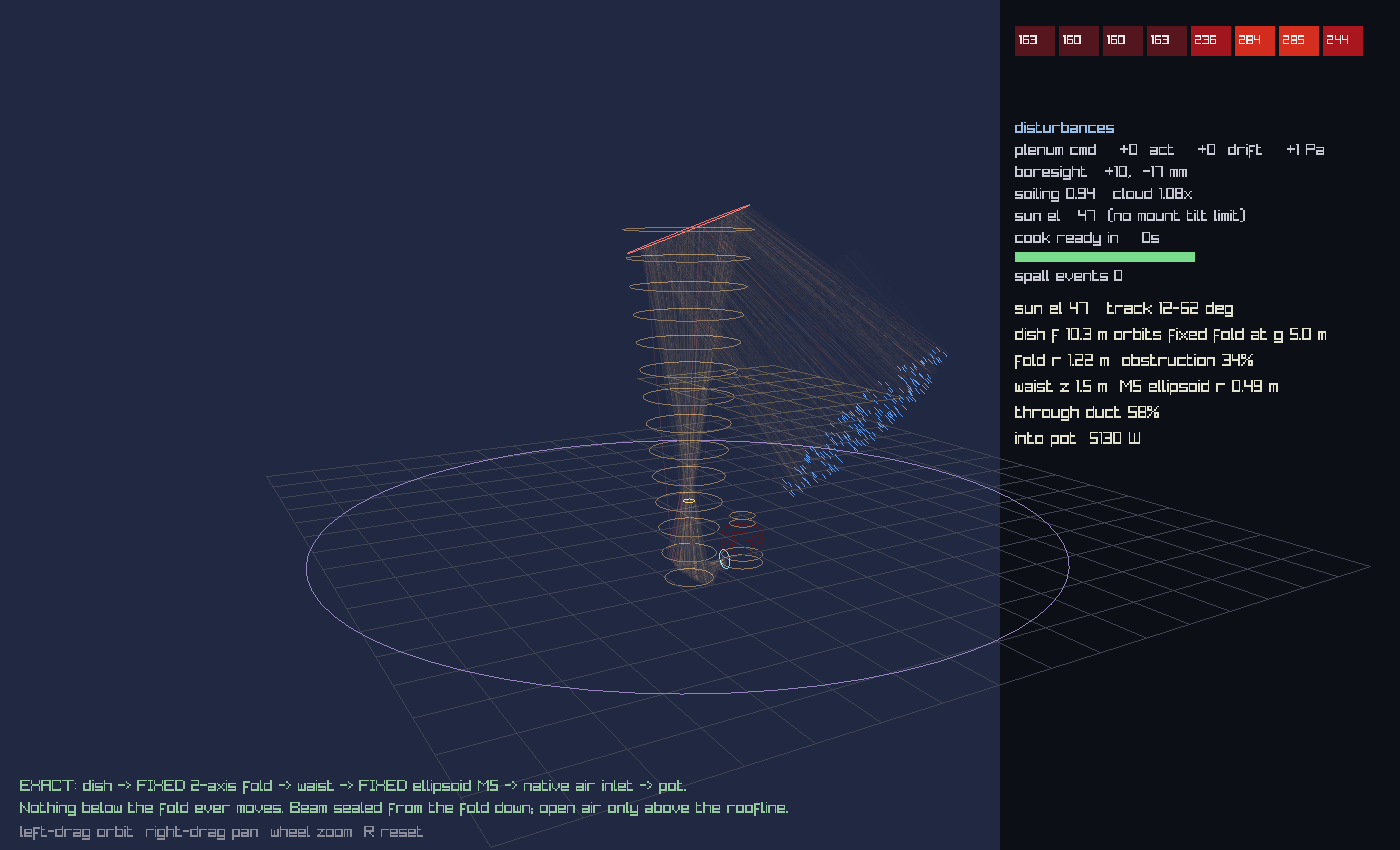
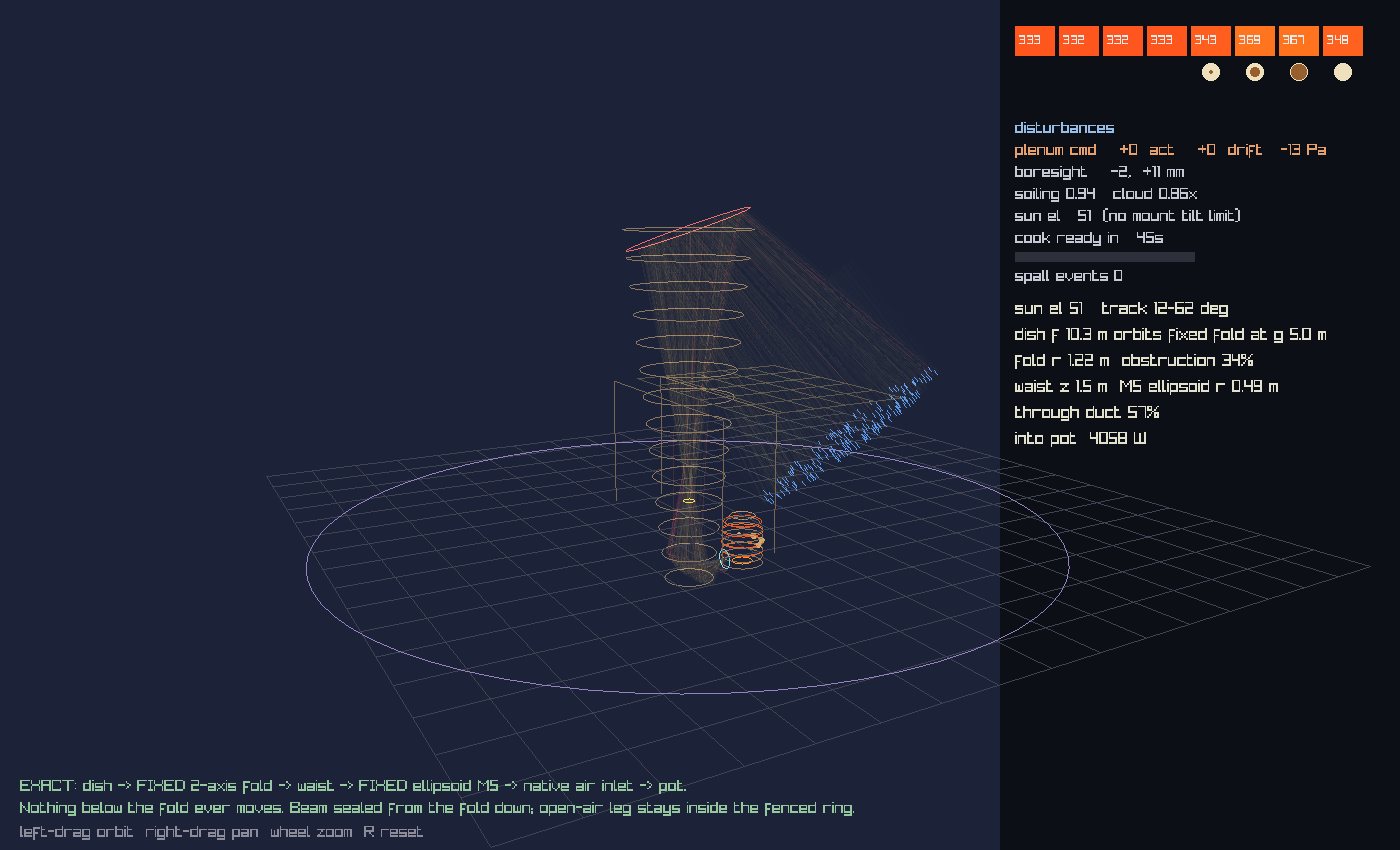
Hashemi renderer: realistic tandoor, room and rotis, ported not restyled
The scene had a placeholder pot (uniform rings, one heat colour) beside
an exact optical trace. Ported the realistic elements from the envs
that already had them:

From the BEAM-DOWN scene: the belt drawn as per-segment wall arcs, each
at its own node temperature; the roti on each loaded segment as a
sphere that grows with bread_E/ROTI_ENERGY; hearth and crown at their
own node colours. The segment arcs go through the same frame map the
physics bins with ((x,y) = (-y_t, x_t)), so the hot side of the pot
faces the duct on screen exactly as it does in the state vector.

From the COUDE scene: the room - the wall the tower stands on drawn
workfloor to roof, the roof deck, the pot as a clay barrel sunk under
the workfloor with its neck to a mouth ring, and the lid that sits on
between loads (load_timer >= 4 s).

diff --git a/tutorials/tandoor_hashemi_env.py b/tutorials/tandoor_hashemi_env.py
@@ -64,8 +64,8 @@ from artist.raytracing.raytracing_utils import reflect
 import tandoor_artist_optics as AO
 import tandoor_coude_optics as CO
 from tandoor_coude_env import TandoorCoudeEnv
-from tandoor_polar_env import TandoorPolarEnv
-from tandoor_rl_env import _sim
+from tandoor_polar_env import TandoorPolarEnv, R_MOUTH
+from tandoor_rl_env import _sim, ROTI_ENERGY
 
 R_POT, H_POT, Z_DUCT = CO.R_POT, CO.H_POT, CO.Z_DUCT
 X_TOWER = CO.X_CHASE
@@ -362,11 +362,51 @@ class TandoorHashemiEnv(TandoorCoudeEnv):
         for gy in np.linspace(-2.2, 2.2, 6):
             pr.draw_line_3d(v3([-2.2, gy, Z_ROOF]),
                             v3([X_TOWER, gy, Z_ROOF]), (88, 84, 76, 255))
-        # the sunk pot, mouth flush with the workfloor
-        for zz in np.linspace(0.0, H_POT, 7):
-            ring([0, 0, zz], R_POT if zz < 0.78*H_POT else 0.26,
-                 self._heat_color(self.T[0, 0]) if 0.2 < zz < 0.78*H_POT
-                 else (150, 120, 94, 255), 26)
+        # the wall the tower stands on, workfloor -> roof (coude scene)
+        for wx in (X_TOWER - 0.55, X_TOWER + 0.55):
+            for wy in (-2.2, 2.2):
+                pr.draw_line_3d(v3([wx, wy, H_POT]), v3([wx, wy, Z_ROOF]),
+                                (118, 102, 84, 255))
+            pr.draw_line_3d(v3([wx, -2.2, Z_ROOF]), v3([wx, 2.2, Z_ROOF]),
+                            (118, 102, 84, 255))
+        # THE EXISTING POT, drawn for real (ported from the beam-down):
+        # clay barrel sunk under the workfloor, neck to the mouth
+        for zz in np.linspace(0.0, H_POT, 8):
+            rr_ = R_POT if zz < H_POT - 0.25 else \
+                R_MOUTH + (R_POT - R_MOUTH) * (H_POT - zz) / 0.25
+            ring([0, 0, zz], rr_, (150, 118, 92, 255), 28)
+        ring([0, 0, H_POT], R_MOUTH, (190, 160, 120, 255), 24)
+        if self.load_timer[0] >= 4.0:          # lid on between loads
+            ring([0, 0, H_POT + 0.03], R_MOUTH * 0.92,
+                 (120, 120, 128, 255), 20)
+        # belt WALL SEGMENTS, each at its own node temperature. The bin
+        # frame maps theirs->ours as (x,y) = (-y_t, x_t), so segment k's
+        # arc is drawn through that map - the hot side faces the duct.
+        z_lo, z_hi = 0.12, H_POT - 0.22
+        for k in range(self.n_belt):
+            a0 = -np.pi + 2 * np.pi * k / self.n_belt
+            th_ = np.linspace(a0, a0 + 2 * np.pi / self.n_belt, 8)
+            col = self._heat_color(self.T[0, k])
+            for zz in (z_lo + 0.15, 0.5 * (z_lo + z_hi), z_hi - 0.10):
+                for j in range(7):
+                    pr.draw_line_3d(
+                        v3([-R_POT*np.sin(th_[j]), R_POT*np.cos(th_[j]),
+                            zz]),
+                        v3([-R_POT*np.sin(th_[j+1]),
+                            R_POT*np.cos(th_[j+1]), zz]), col)
+            # the ROTI stuck on this wall segment, growing as it cooks
+            if self.has_bread[0, k]:
+                am = a0 + np.pi / self.n_belt
+                fr_ = min(float(self.bread_E[0, k]) / ROTI_ENERGY, 1.0)
+                pr.draw_sphere(
+                    v3([-0.965*R_POT*np.sin(am), 0.965*R_POT*np.cos(am),
+                        0.5*(z_lo+z_hi)]),
+                    0.05 + 0.02 * fr_, (205, 170, 112, 255))
+        # hearth (coal-bed spot the beam lands on) and crown
+        ring([0, 0, 0.03], R_POT * 0.5,
+             self._heat_color(self.T[0, self.n_belt]), 18)
+        ring([0, 0, H_POT - 0.12], R_POT * 0.93,
+             self._heat_color(self.T[0, self.n_belt + 2]), 22)
         ring([R_POT, 0, Z_DUCT], R_DUCT_H, (120, 220, 235, 255), 18,
              ax="x")
         # the tower: sealed bore, tapering fold -> M5 pit; FIXED forever
